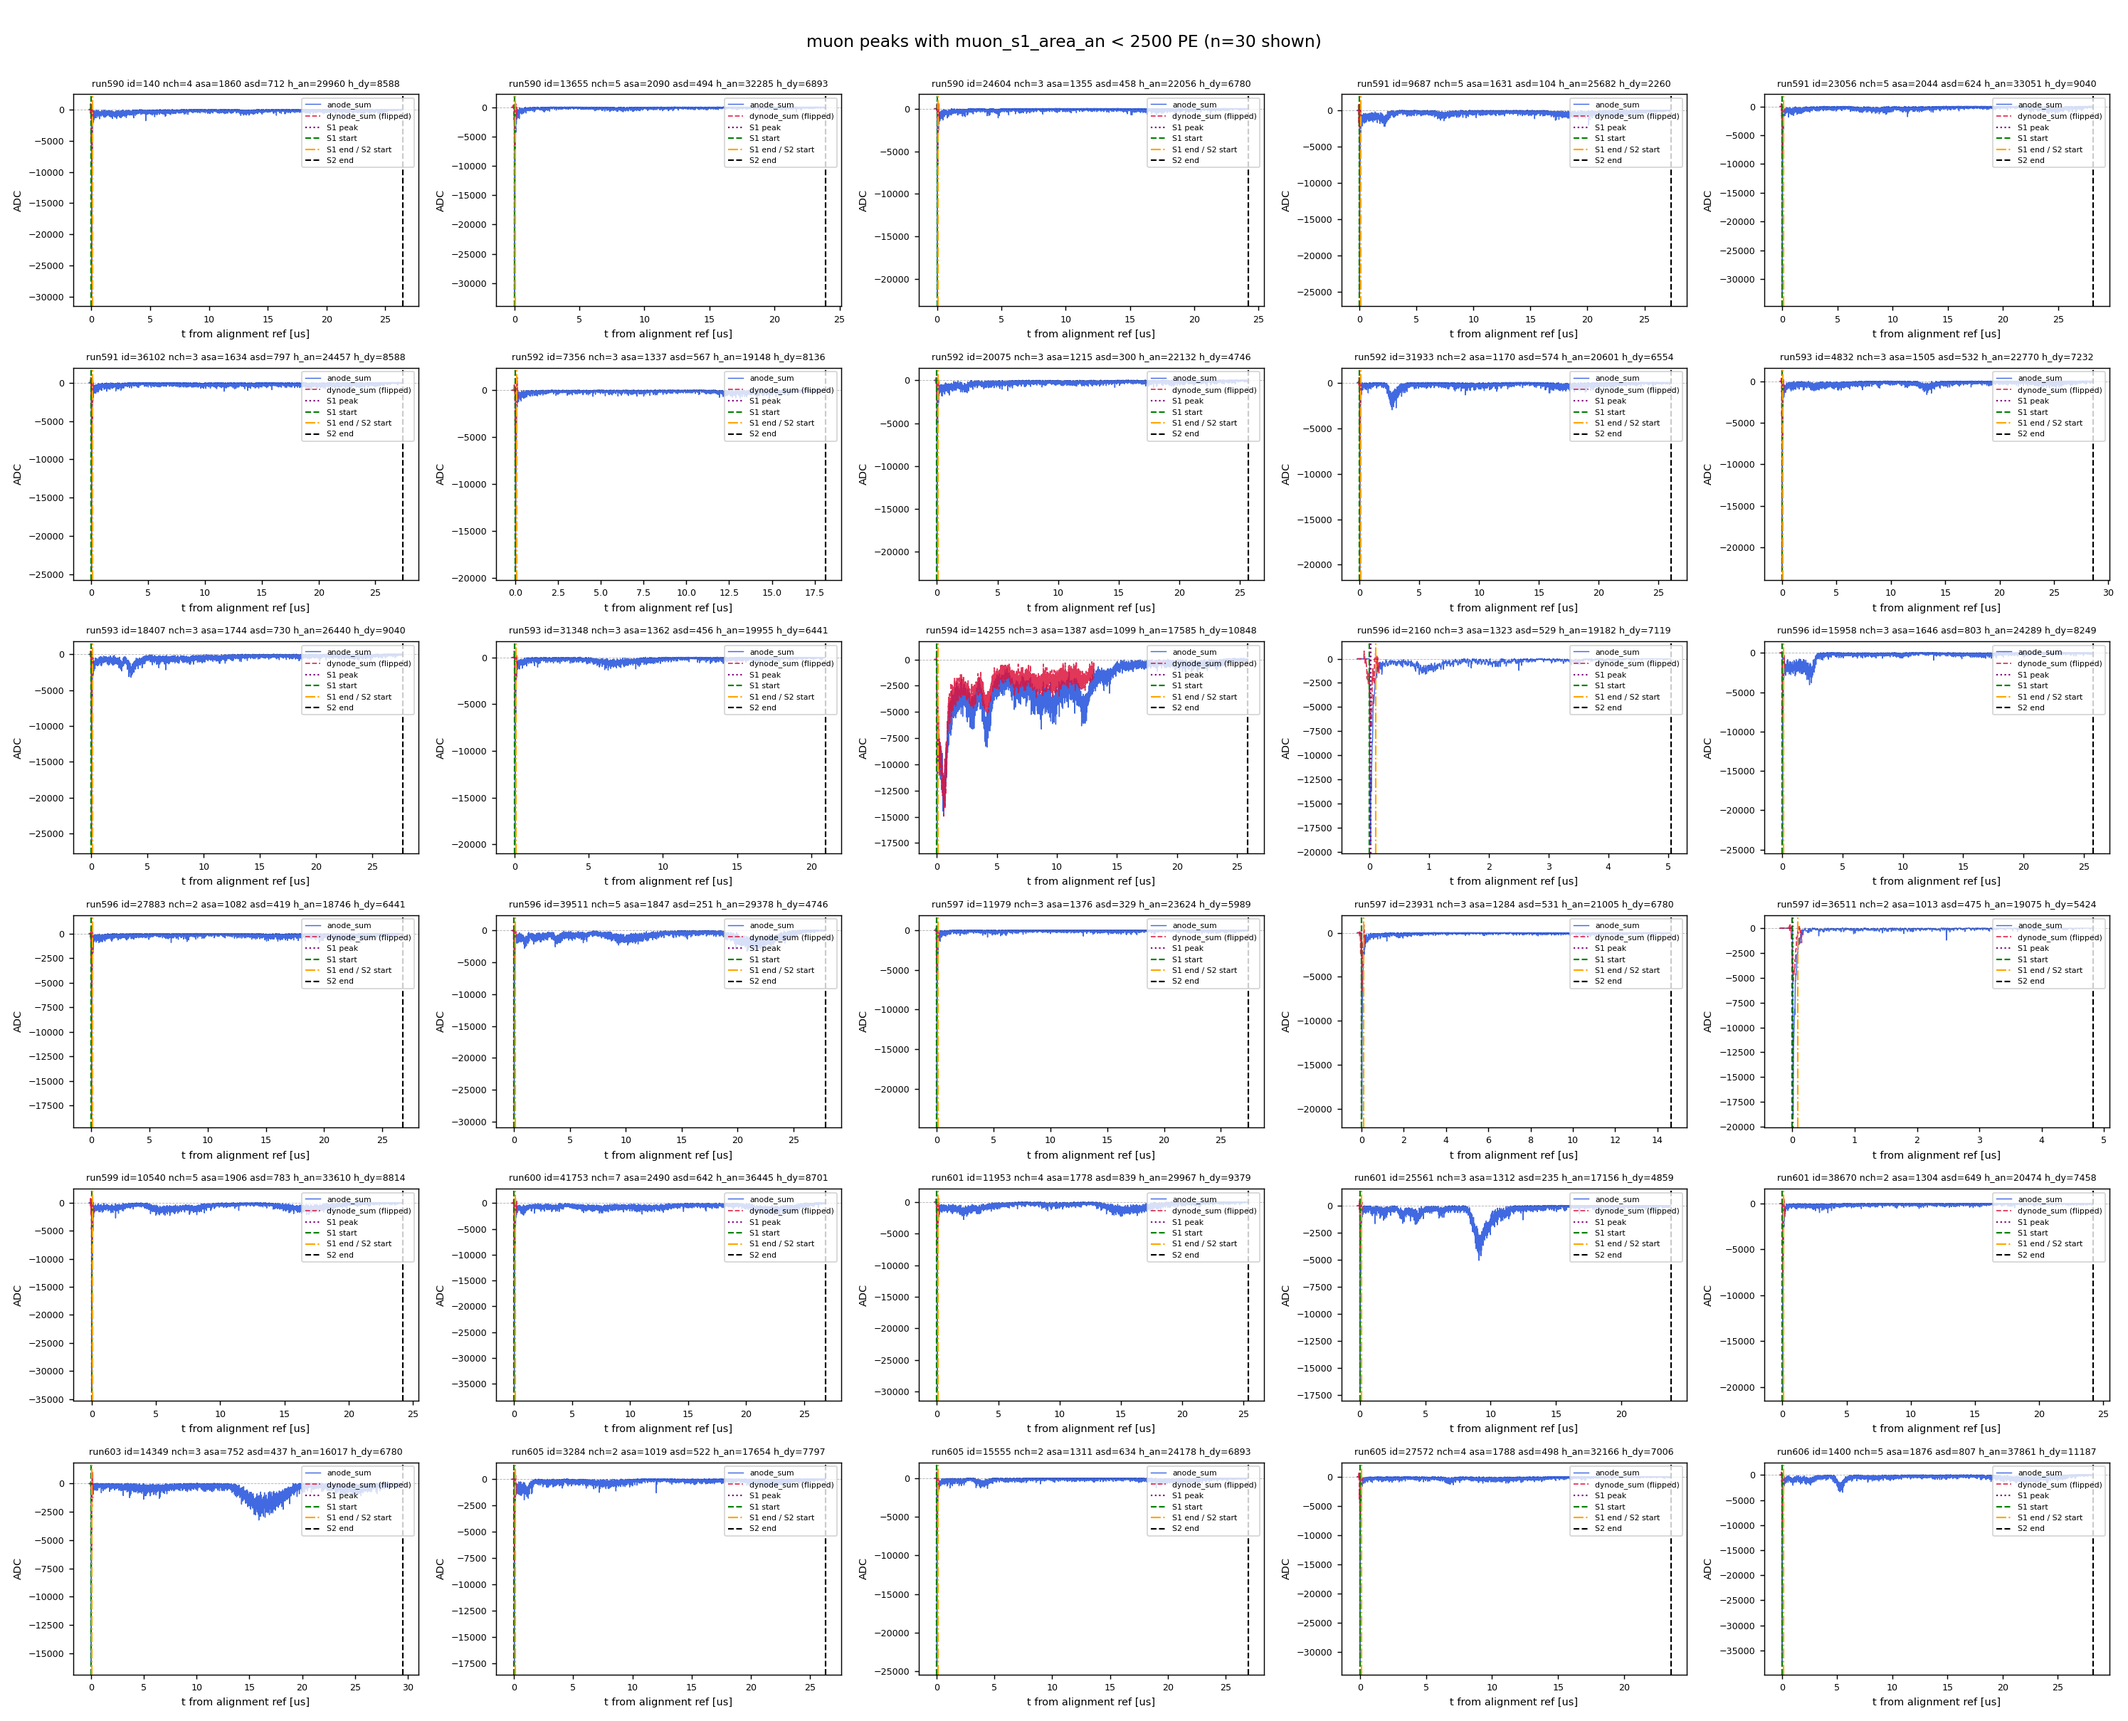
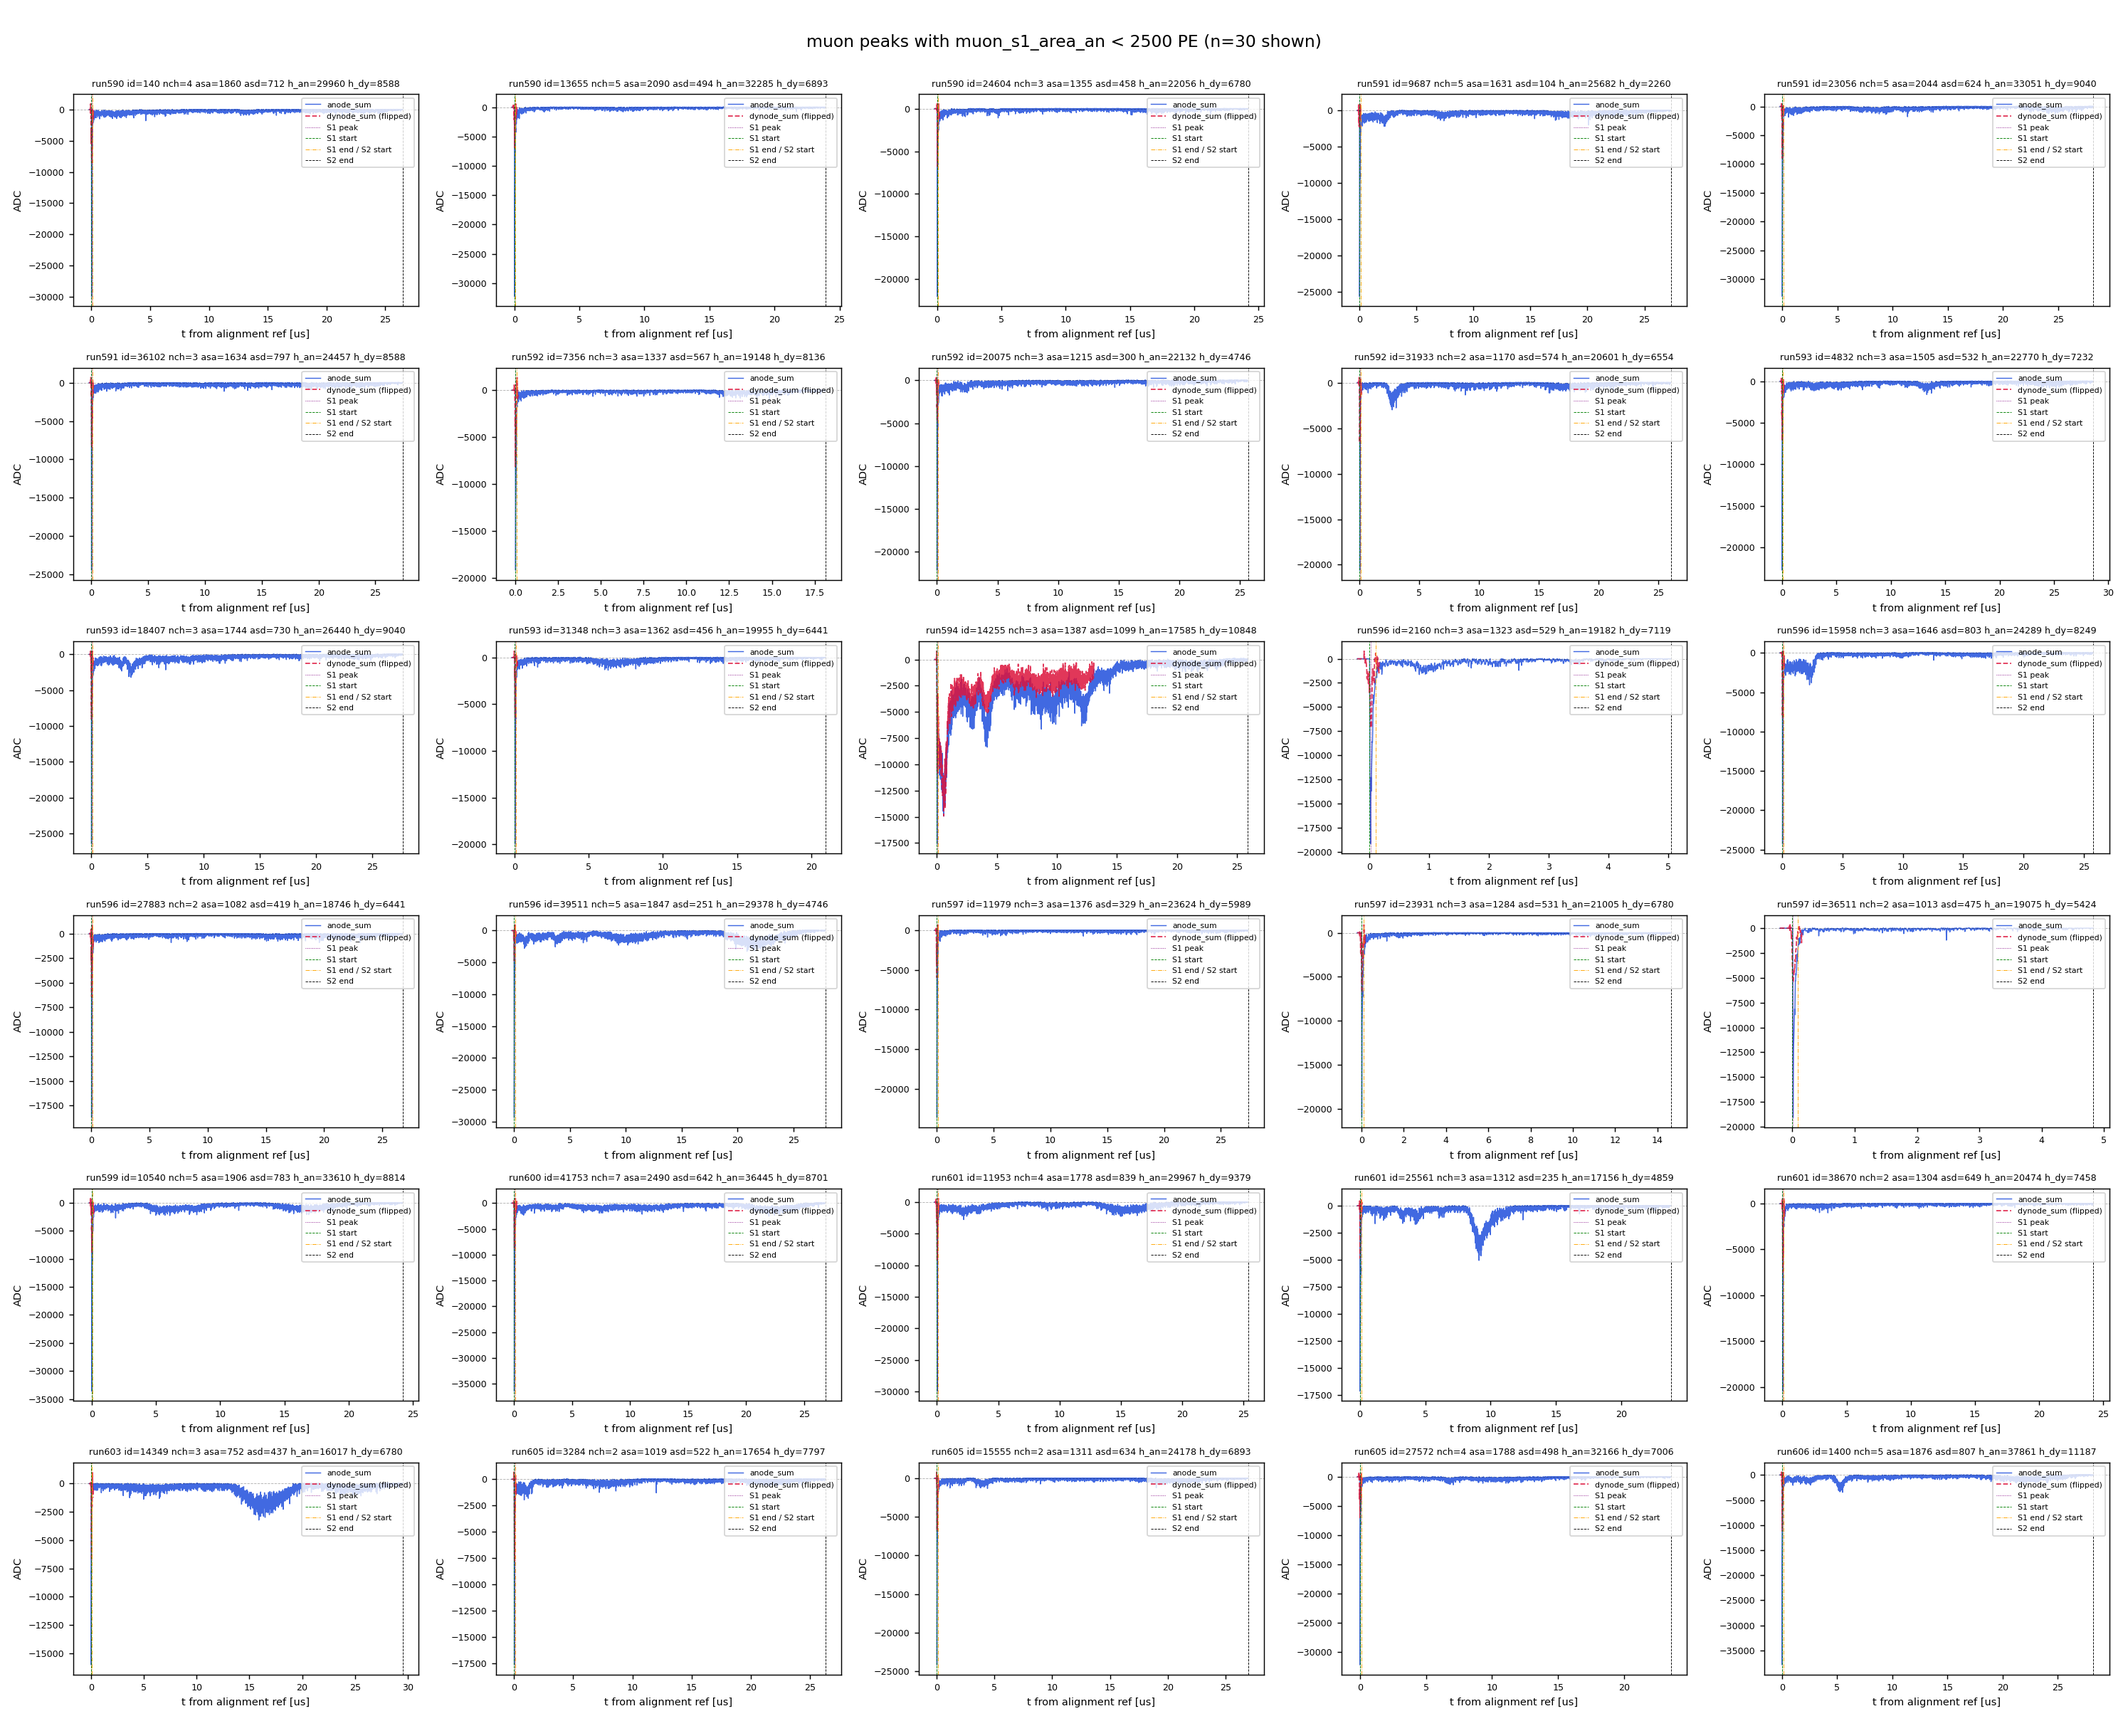
Add high-area (muon_s1_area_an>=2.5e3) 30 example waveforms; generalize script to low/high sides

diff --git a/scripts/plot_muon_lowarea_examples.py b/scripts/plot_muon_lowarea_examples.py
@@ -13,18 +13,23 @@ matplotlib.use("Agg")
 import matplotlib.pyplot as plt
 from muon_analysis.sum_store import load_sum_npz
 
-AREA_MAX = 2.5e3
+AREA_CUT = 2.5e3
 N_EX = 30
-ZOOM_US = float(sys.argv[1]) if len(sys.argv) > 1 else None
-ZOOM_START = float(sys.argv[2]) if len(sys.argv) > 2 else -0.5
+SIDE = sys.argv[1] if len(sys.argv) > 1 else "low"      # low | high
+ZOOM_US = float(sys.argv[2]) if len(sys.argv) > 2 else None
+ZOOM_START = float(sys.argv[3]) if len(sys.argv) > 3 else -0.5
 TMP = "/mnt/data/tmp/muon_analysis/co60_590/peak_level_v2"
 DOCS = "/home/yjj/MuonDAS/docs/figures"
-OUT = (f"{TMP}/muon_lowarea_examples_zoom{ZOOM_US:g}us.png" if ZOOM_US
-       else f"{TMP}/muon_lowarea_examples.png")
+SIDE_TAG = "lowarea" if SIDE == "low" else "higharea"
+AREA_LABEL = f"muon_s1_area_an < {AREA_CUT:g} PE" if SIDE == "low" \
+    else f"muon_s1_area_an >= {AREA_CUT:g} PE"
+OUT = (f"{TMP}/muon_{SIDE_TAG}_examples_zoom{ZOOM_US:g}us.png" if ZOOM_US
+       else f"{TMP}/muon_{SIDE_TAG}_examples.png")
 
 df = pd.read_csv(f"{TMP}/co60_590_peak_level_v2.csv")
+_area = df.muon_s1_area_an
 sel = df[(df.signal_type == "muon") & (df.muon_s1_height_an < 2e5)
-         & (df.muon_s1_area_an < AREA_MAX)]
+         & ((_area < AREA_CUT) if SIDE == "low" else (_area >= AREA_CUT))]
 print(f"matching muon peaks = {len(sel)}")
 step = max(1, len(sel) // N_EX)
 picks = sel.iloc[::step].head(N_EX)
@@ -76,7 +81,7 @@ for ax, (_, row) in zip(axes, picks.iterrows()):
     plotted += 1
 for ax in axes[plotted:]:
     ax.axis("off")
-fig.suptitle(f"muon peaks with muon_s1_area_an < {AREA_MAX:g} PE "
+fig.suptitle(f"muon peaks with {AREA_LABEL} "
              f"(n={plotted} shown)"
              + (f", x zoom = {ZOOM_US:g} us from {ZOOM_START:+.1f} us"
                 if ZOOM_US else ""), fontsize=13)
